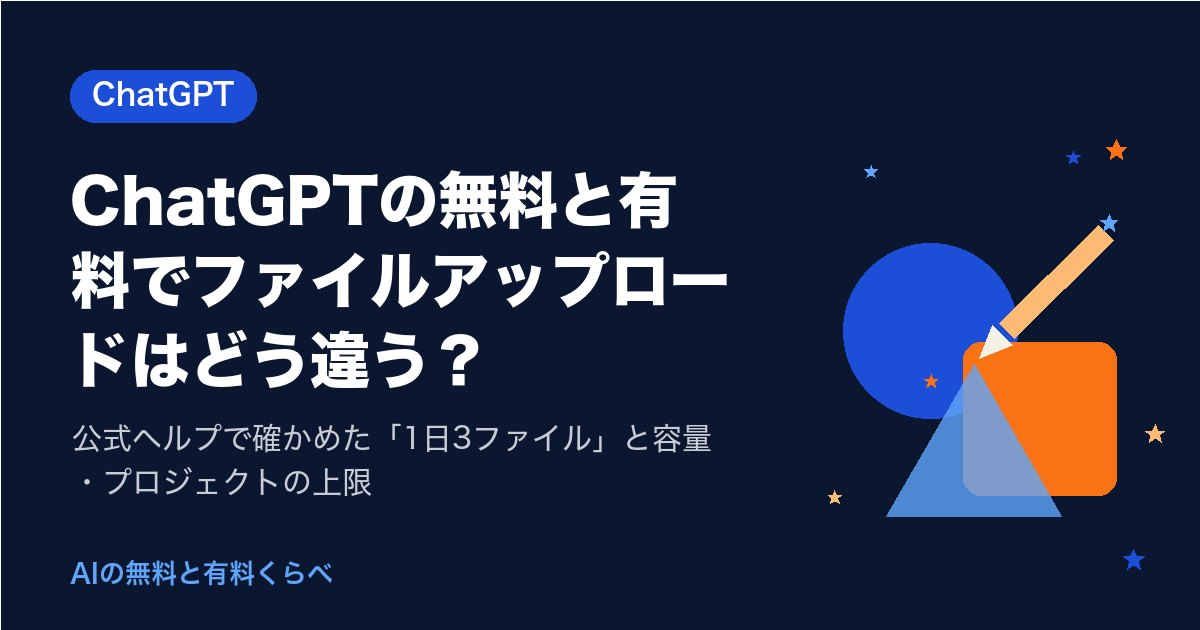
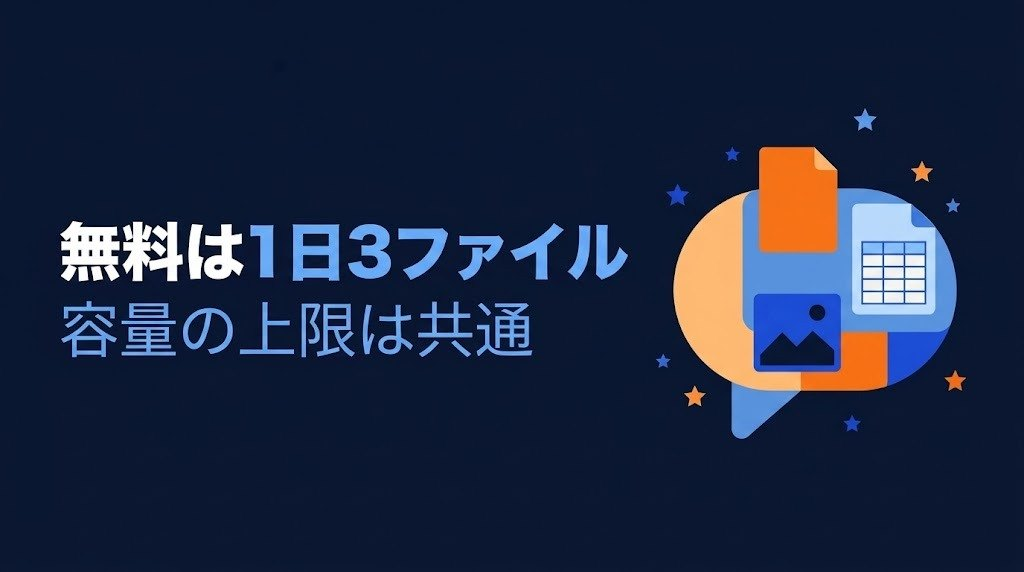
Use Gemini-made eyecatch images matching the header

diff --git a/docs/articles/chatgpt-file-upload-limits.html b/docs/articles/chatgpt-file-upload-limits.html
@@ -220,7 +220,7 @@ article ul li::marker{content:"▸ ";color:#4da3ff}
 <script>window.dataLayer=window.dataLayer||[];function gtag(){dataLayer.push(arguments);}gtag('js',new Date());gtag('config','G-EHWF25C1RB');</script><script type="application/ld+json">{"@context": "https://schema.org", "@type": "Article", "headline": "ChatGPTの無料と有料でファイルアップロードはどう違う？｜公式ヘルプで確かめた「1日3ファイル」と容量・プロジェクトの上限", "description": "ChatGPTの無料と有料でファイルアップロードはどう違うのかを、2026年10月30日に公式ヘルプと料金ページで確かめました。無料版でもPDF・Word・Excel・PowerPoint・画像は読めますが、無料は1日3ファイルまで。1ファイルの容量（文書512MB・画像20MB）は共通で、違いはアップロードの回数、音声ファイル、プロジェクトに入れられるファイル数です。会社の資料を読ませる前の注意も表で整理します。", "datePublished": "2026-10-30", "image": "https://masabee1029.github.io/ai-free-vs-paid/img/articles/chatgpt-file-upload-limits.jpg", "author": {"@type": "Person", "name": "運営者", "url": "https://masabee1029.github.io/ai-free-vs-paid/about.html"}, "publisher": {"@type": "Organization", "name": "AIの無料と有料くらべ"}, "mainEntityOfPage": "https://masabee1029.github.io/ai-free-vs-paid/articles/chatgpt-file-upload-limits.html"}</script><script type="application/ld+json">{"@context": "https://schema.org", "@type": "BreadcrumbList", "itemListElement": [{"@type": "ListItem", "position": 1, "name": "ホーム", "item": "https://masabee1029.github.io/ai-free-vs-paid/index.html"}, {"@type": "ListItem", "position": 2, "name": "ChatGPT", "item": "https://masabee1029.github.io/ai-free-vs-paid/category/chatgpt.html"}, {"@type": "ListItem", "position": 3, "name": "ChatGPTの無料と有料でファイルアップロードはどう違う？｜公式ヘルプで確かめた「1日3ファイル」と容量・プロジェクトの上限", "item": "https://masabee1029.github.io/ai-free-vs-paid/articles/chatgpt-file-upload-limits.html"}]}</script></head><body>
 <header><div class="wrap"><div class="top"><a class="logo" href="../index.html">AIの<span>無料と有料</span>くらべ</a><span class="tagline">6つのAIを表で比べる</span></div>
 <nav class="gnav"><a href="../index.html">ホーム</a><a href="../category/chatgpt.html" class="on">ChatGPT</a><a href="../category/gemini.html">Gemini</a><a href="../category/claude.html">Claude</a><a href="../category/copilot.html">Copilot</a><a href="../category/notebooklm.html">NotebookLM</a><a href="../category/canva.html">Canva</a><a href="../category/compare.html">比較</a></nav></div></header>
-<div class="wrap"><div class="layout"><main><div class="crumb"><a href="../index.html">ホーム</a> ＞ <a href="../category/chatgpt.html">ChatGPT</a> ＞ ChatGPTの無料と有料でファイルアップロードはどう違う？｜公式ヘルプで確かめた「1日3ファイル」と容量・プロジェクトの上限</div><article><a class="tag" href="../category/chatgpt.html">ChatGPT</a><span class="date">2026-10-30</span><h1>ChatGPTの無料と有料でファイルアップロードはどう違う？｜公式ヘルプで確かめた「1日3ファイル」と容量・プロジェクトの上限</h1><p class="prline">※この記事はプロモーション（広告）を含みます</p><img class="eyecatch" src="../img/articles/chatgpt-file-upload-limits.jpg" alt="ChatGPTの無料と有料でファイルアップロードはどう違う？｜公式ヘルプで確かめた「1日3ファイル」と容量・プロジェクトの上限（図形と文字で作ったイメージ画像）"><div class="lead"><strong>この記事でわかること</strong>ChatGPTの無料と有料でファイルアップロードはどう違うのかを、2026年10月30日に公式ヘルプと料金ページで確かめました。無料版でもPDF・Word・Excel・PowerPoint・画像は読めますが、無料は1日3ファイルまで。1ファイルの容量（文書512MB・画像20MB）は共通で、違いはアップロードの回数、音声ファイル、プロジェクトに入れられるファイル数です。会社の資料を読ませる前の注意も表で整理します。</div><p>会議の資料のPDFや、毎月のExcelをChatGPTに読ませて、「要点だけ教えて」と頼めたら楽ですよね。<br>結論から言うと、<strong>ChatGPTの無料版でもファイルのアップロードはできますが、無料は1日3ファイルまで</strong>です。OpenAIの公式ヘルプには、文書・表計算・プレゼン・画像のアップロードは無料と有料の両方で使え、プランごとの上限がある、と書かれています。<br>1ファイルの容量の上限は共通で、無料と有料で違いが出るのは「何回アップロードできるか」「音声ファイルを読めるか」「プロジェクトに何ファイル入れられるか」の3つです。この記事では、公式ヘルプで確かめた内容を、会社員のあなたの使い方に沿って表で整理します。</p>
+<div class="wrap"><div class="layout"><main><div class="crumb"><a href="../index.html">ホーム</a> ＞ <a href="../category/chatgpt.html">ChatGPT</a> ＞ ChatGPTの無料と有料でファイルアップロードはどう違う？｜公式ヘルプで確かめた「1日3ファイル」と容量・プロジェクトの上限</div><article><a class="tag" href="../category/chatgpt.html">ChatGPT</a><span class="date">2026-10-30</span><h1>ChatGPTの無料と有料でファイルアップロードはどう違う？｜公式ヘルプで確かめた「1日3ファイル」と容量・プロジェクトの上限</h1><p class="prline">※この記事はプロモーション（広告）を含みます</p><img class="eyecatch" src="../img/articles/chatgpt-file-upload-limits.jpg" alt="AIで作成したイメージ画像：ChatGPTの無料と有料でファイルアップロードはどう違う？｜公式ヘルプで確かめた「1日3ファイル」と容量・プロジェクトの上限"><div class="lead"><strong>この記事でわかること</strong>ChatGPTの無料と有料でファイルアップロードはどう違うのかを、2026年10月30日に公式ヘルプと料金ページで確かめました。無料版でもPDF・Word・Excel・PowerPoint・画像は読めますが、無料は1日3ファイルまで。1ファイルの容量（文書512MB・画像20MB）は共通で、違いはアップロードの回数、音声ファイル、プロジェクトに入れられるファイル数です。会社の資料を読ませる前の注意も表で整理します。</div><p>会議の資料のPDFや、毎月のExcelをChatGPTに読ませて、「要点だけ教えて」と頼めたら楽ですよね。<br>結論から言うと、<strong>ChatGPTの無料版でもファイルのアップロードはできますが、無料は1日3ファイルまで</strong>です。OpenAIの公式ヘルプには、文書・表計算・プレゼン・画像のアップロードは無料と有料の両方で使え、プランごとの上限がある、と書かれています。<br>1ファイルの容量の上限は共通で、無料と有料で違いが出るのは「何回アップロードできるか」「音声ファイルを読めるか」「プロジェクトに何ファイル入れられるか」の3つです。この記事では、公式ヘルプで確かめた内容を、会社員のあなたの使い方に沿って表で整理します。</p>
 <p><strong>確認日：2026年10月30日</strong>（料金・上限は各社の公式情報で確認。変わることがあります）</p>
 <div class="toc"><strong>目次</strong><ol><li><a href="#s1">ChatGPTで読めるファイルの種類｜無料でも有料でも同じ</a></li><li><a href="#s2">無料と有料のちがい｜回数・音声・プロジェクトの3つ</a></li><li><a href="#s3">1ファイルの容量の上限｜これは無料も有料も共通</a></li><li><a href="#s4">あなたの使い方ならどちら？｜仕事の場面で選ぶ</a></li><li><a href="#s5">会社の資料を読ませる前に｜向かない人・注意点</a></li><li><a href="#s6">確かめた公式の情報</a></li><li><a href="#s7">まとめ</a></li></ol></div><div class="picks"><div class="picks-h">この記事で役立つ本・道具</div><div class="pick"><div><strong>ChatGPTの入門書</strong><span>無料版から順に学べる</span></div><a class="btn amz" rel="nofollow sponsored noopener" target="_blank" href="https://www.amazon.co.jp/s?k=ChatGPT+%E6%9C%AC+%E5%85%A5%E9%96%80&amp;tag=masabee00001-22">Amazon</a><a class="btn rkt" rel="nofollow sponsored noopener" target="_blank" href="https://hb.afl.rakuten.co.jp/hgc/5867408e.a723d753.5867408f.9cd38db5/?pc=https%3A%2F%2Fsearch.rakuten.co.jp%2Fsearch%2Fmall%2FChatGPT%2520%25E6%259C%25AC%2520%25E5%2585%25A5%25E9%2596%2580%2F">楽天</a></div><div class="pick"><div><strong>ChatGPTの仕事術の本</strong><span>会社の用事に落とし込める</span></div><a class="btn amz" rel="nofollow sponsored noopener" target="_blank" href="https://www.amazon.co.jp/s?k=ChatGPT+%E4%BB%95%E4%BA%8B%E8%A1%93+%E6%9C%AC&amp;tag=masabee00001-22">Amazon</a><a class="btn rkt" rel="nofollow sponsored noopener" target="_blank" href="https://hb.afl.rakuten.co.jp/hgc/5867408e.a723d753.5867408f.9cd38db5/?pc=https%3A%2F%2Fsearch.rakuten.co.jp%2Fsearch%2Fmall%2FChatGPT%2520%25E4%25BB%2595%25E4%25BA%258B%25E8%25A1%2593%2520%25E6%259C%25AC%2F">楽天</a></div></div><h2 id="s1">ChatGPTで読めるファイルの種類｜無料でも有料でも同じ</h2>
 <p>まず、どんなファイルを読ませられるかです。2026年10月30日に、OpenAIヘルプセンターの「Uploading files and audio to ChatGPT」で確かめた内容を表にしました。</p>
@@ -252,7 +252,7 @@ article ul li::marker{content:"▸ ";color:#4da3ff}
 <ul><li><a href="https://help.openai.com/en/articles/8555545-uploading-files-and-audio-to-chatgpt" target="_blank" rel="noopener">Uploading files and audio to ChatGPT（OpenAIヘルプセンター）</a></li><li><a href="https://chatgpt.com/ja-JP/pricing/" target="_blank" rel="noopener">ChatGPTのプランと料金（ChatGPT公式）</a></li></ul>
 <div class="picks"><div class="picks-h">次の一歩に役立つ本・道具</div><div class="pick"><div><strong>ChatGPTの入門書</strong><span>無料版から順に学べる</span></div><a class="btn amz" rel="nofollow sponsored noopener" target="_blank" href="https://www.amazon.co.jp/s?k=ChatGPT+%E6%9C%AC+%E5%85%A5%E9%96%80&amp;tag=masabee00001-22">Amazon</a><a class="btn rkt" rel="nofollow sponsored noopener" target="_blank" href="https://hb.afl.rakuten.co.jp/hgc/5867408e.a723d753.5867408f.9cd38db5/?pc=https%3A%2F%2Fsearch.rakuten.co.jp%2Fsearch%2Fmall%2FChatGPT%2520%25E6%259C%25AC%2520%25E5%2585%25A5%25E9%2596%2580%2F">楽天</a></div><div class="pick"><div><strong>ChatGPTの仕事術の本</strong><span>会社の用事に落とし込める</span></div><a class="btn amz" rel="nofollow sponsored noopener" target="_blank" href="https://www.amazon.co.jp/s?k=ChatGPT+%E4%BB%95%E4%BA%8B%E8%A1%93+%E6%9C%AC&amp;tag=masabee00001-22">Amazon</a><a class="btn rkt" rel="nofollow sponsored noopener" target="_blank" href="https://hb.afl.rakuten.co.jp/hgc/5867408e.a723d753.5867408f.9cd38db5/?pc=https%3A%2F%2Fsearch.rakuten.co.jp%2Fsearch%2Fmall%2FChatGPT%2520%25E4%25BB%2595%25E4%25BA%258B%25E8%25A1%2593%2520%25E6%259C%25AC%2F">楽天</a></div></div><div class="picks"><div class="picks-h">あわせて使えるサービス（PR）</div><div class="pick"><div><strong>PLAUD（AIボイスレコーダー）</strong><span>会議を録るだけで、AIが文字起こしと要約をしてくれる</span></div><a class="btn vc" rel="nofollow sponsored noopener" target="_blank" href="https://px.a8.net/svt/ejp?a8mat=4BELTL+7QQQA+5J4W+5YRHE">公式ストアを見る</a><img src="https://www11.a8.net/0.gif?a8mat=4BELTL+7QQQA+5J4W+5YRHE" height="1" width="1" alt="" style="border:0"></div><div class="pick"><div><strong>ConoHa AI Canvas</strong><span>インストールなしで、ブラウザだけでAI画像を作れる</span></div><a class="btn vc" rel="nofollow sponsored noopener" target="_blank" href="https://px.a8.net/svt/ejp?a8mat=4BELTL+BWRYQ+50+7RTY1E">公式サイトを見る</a><img src="https://www14.a8.net/0.gif?a8mat=4BELTL+BWRYQ+50+7RTY1E" height="1" width="1" alt="" style="border:0"></div><div class="pick"><div><strong>Notta（AI文字起こし）</strong><span>会議や講義の音声を、AIが文字起こしして議事録にする</span></div><a class="btn vc" rel="nofollow sponsored noopener" target="_blank" href="https://px.a8.net/svt/ejp?a8mat=4BENDR+2Z9W2+5988+5YJRM">無料で試す</a><img src="https://www16.a8.net/0.gif?a8mat=4BENDR+2Z9W2+5988+5YJRM" height="1" width="1" alt="" style="border:0"></div></div><div class="picks book"><div class="picks-h">著者の本（この連載の考え方を 1 冊に）</div><div class="book-row"><img class="book-cover" loading="lazy" src="../img/book1.jpg" alt="39歳からのAI仕事術 会社のPCで今日から使える39のプロンプト の表紙"><div class="book-txt"><strong>39歳からのAI仕事術 会社のPCで今日から使える39のプロンプト</strong><span>Copilot・ChatGPT・Gemini対応／著者 まさび／500円・Kindle Unlimited 対象</span><span class="book-note">会社のPCで、明日の朝からそのまま使える39の頼み方を1冊にまとめました。サイトとは別に書き下ろした内容です。</span><a class="btn amz" rel="nofollow sponsored noopener" target="_blank" href="https://www.amazon.co.jp/dp/B0HNZWNVM5?tag=masabee00001-22">Amazonで見る（Kindle）</a></div></div></div><h2 id="s7">まとめ</h2>
 <ul><li>ChatGPTの無料版でも、<strong>PDF・Word・Excel・PowerPoint・画像</strong>のアップロードはできる</li><li>無料と有料のちがいは、<strong>回数（無料は1日3ファイル）・音声ファイル（無料は使えない）・プロジェクトのファイル数（無料5／Go・Plus 25／Proなど40）</strong>の3つ</li><li>1ファイルの容量（文書512MB・画像20MB・表計算約50MB）は、無料も有料も共通</li><li>会社の資料は、<strong>会社の決まりを先に確かめ、社外秘・個人情報は入れない</strong></li></ul>
-<p>ここまで読んでくださって、ありがとうございます。<br>まずはこの1週間、ChatGPTに読ませたいファイルが何個あったかを、メモに数えてみませんか。この1つだけで十分です。1日3個に収まるなら無料版のままで、超える日が多いなら有料版を考える目安になります。<br>あなたの仕事で、いちばんAIに読ませたいファイルは何ですか？</p><div class="next"><div class="next-h">今日できる次の一歩</div><p>最後まで読んでくださり、ありがとうございました。</p><p>まずは無料版で、今日の用事を1つだけAIに頼んでみませんか。足りないと感じた所が、有料にするかを決める一番の材料になります。</p><p>あなたが最初に任せたい仕事は何ですか？</p></div><p class="ainote">この記事は下書きにAIを使い、内容は運営者が公式情報で確認しています。</p><script>(function(C){var R=window.matchMedia&&matchMedia("(prefers-reduced-motion: reduce)").matches;
+<p>ここまで読んでくださって、ありがとうございます。<br>まずはこの1週間、ChatGPTに読ませたいファイルが何個あったかを、メモに数えてみませんか。この1つだけで十分です。1日3個に収まるなら無料版のままで、超える日が多いなら有料版を考える目安になります。<br>あなたの仕事で、いちばんAIに読ませたいファイルは何ですか？</p><div class="next"><div class="next-h">今日できる次の一歩</div><p>最後まで読んでくださり、ありがとうございました。</p><p>まずは無料版で、今日の用事を1つだけAIに頼んでみませんか。足りないと感じた所が、有料にするかを決める一番の材料になります。</p><p>あなたが最初に任せたい仕事は何ですか？</p></div><p class="ainote">この記事は下書きにAIを使い、内容は運営者が公式情報で確認しています。画像はAIで作成したイメージです。</p><script>(function(C){var R=window.matchMedia&&matchMedia("(prefers-reduced-motion: reduce)").matches;
 var art=document.querySelector("article");if(!art)return;
 /* 読んだ記事を覚えておく（カテゴリページの「読んだ」印に使う。この端末の中だけ。同じ github.io の別サイトと混ざらないよう、パス全体で覚える） */
 try{var RK="ax-read",RL=JSON.parse(localStorage.getItem(RK)||"[]"),me=location.pathname;if(RL.indexOf(me)<0){RL.push(me);localStorage.setItem(RK,JSON.stringify(RL.slice(-300)))}}catch(e){}
